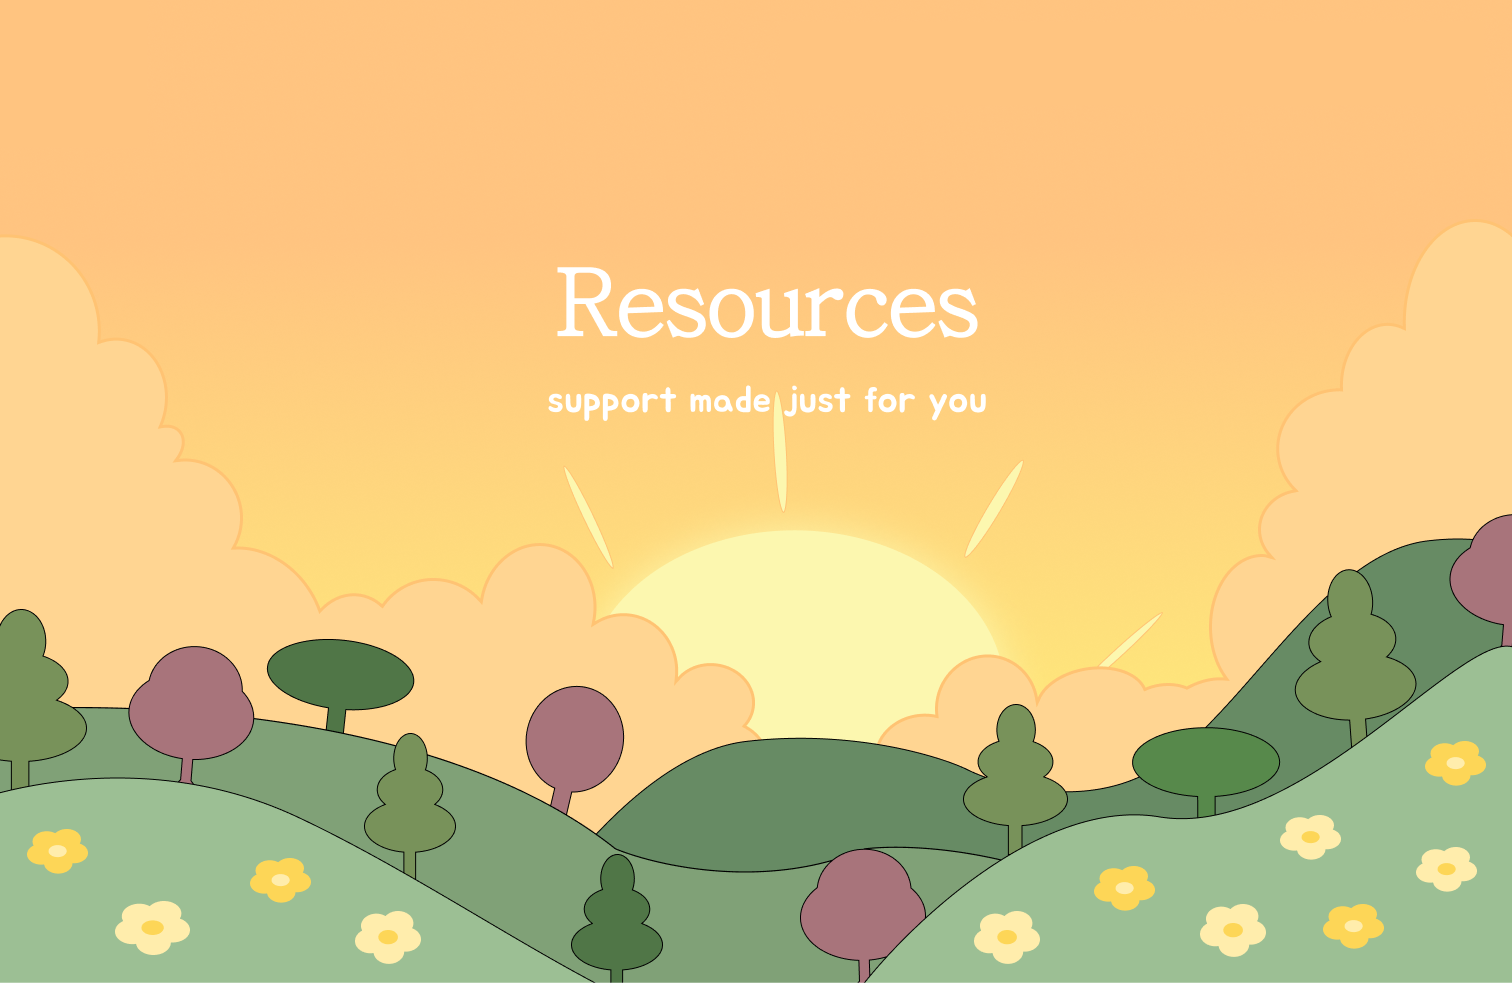
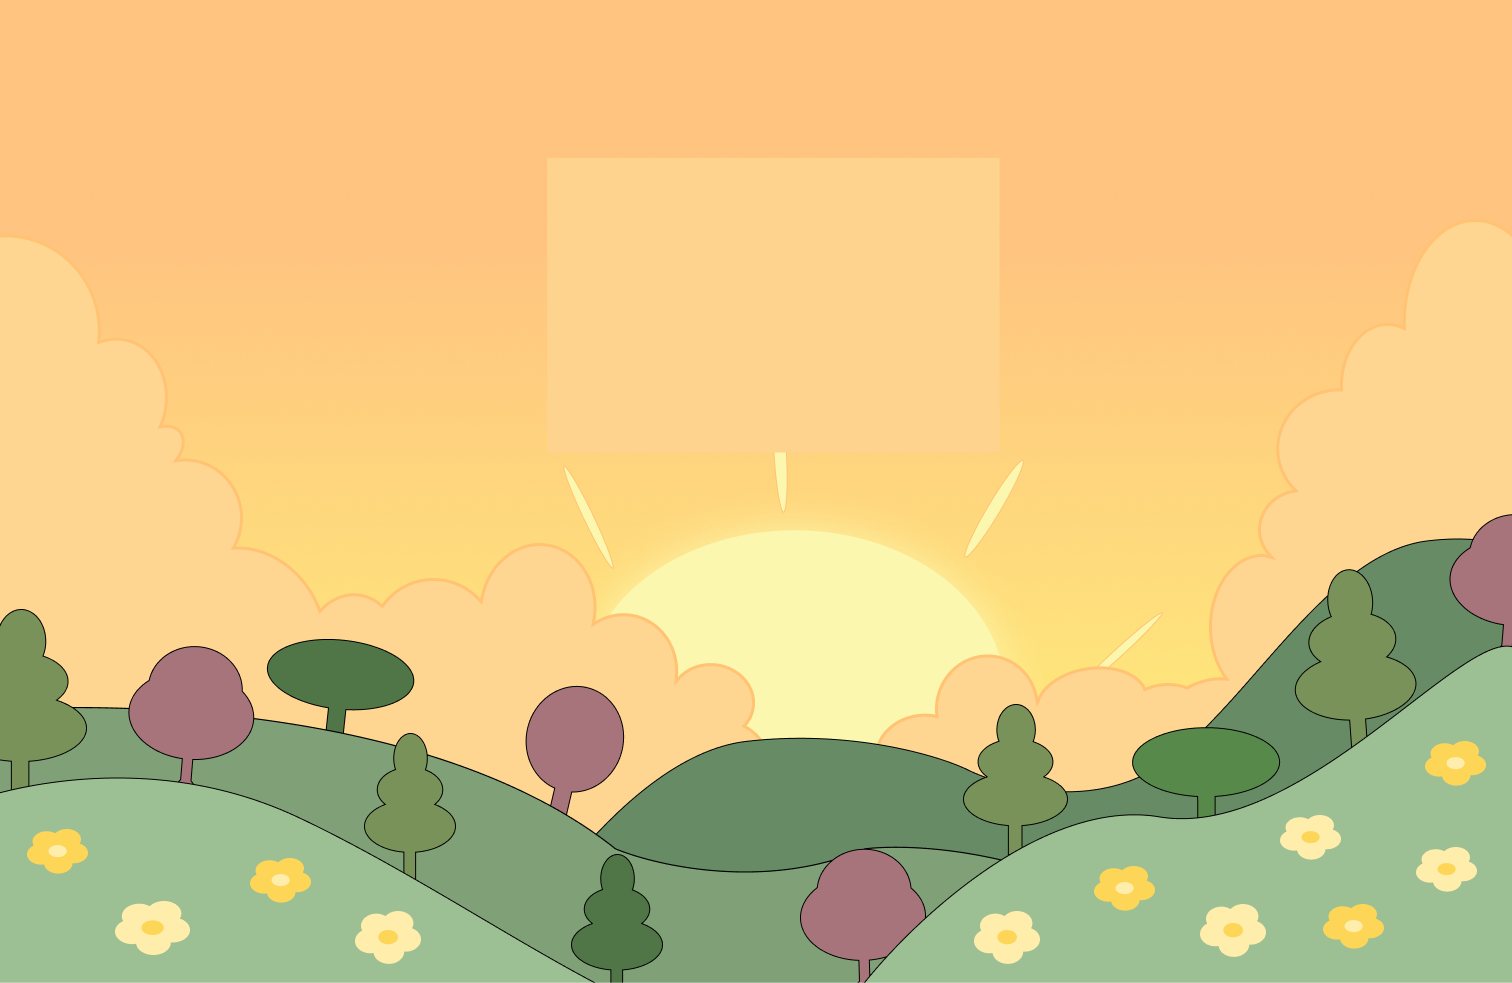
Practically Done
I just need help with fonts and stuff of that nature. Additonally, I need help getting better images for my background of the heros. Besides that I am done.

Changed region(s): [[0.373, 0.2747, 0.6528, 0.3662], [0.3419, 0.3967, 0.6528, 0.4578]]

diff --git a/app/(pages)/_components/common/Navbar/Navbar.module.scss b/app/(pages)/_components/common/Navbar/Navbar.module.scss
@@ -1,4 +1,5 @@
  // Import global styles
+ 
 .navbar {
     position: absolute; 
     top: 0;
@@ -15,10 +16,27 @@
 
 .nav-logo {
         width: 101.924px;
-            height: 89px;
-            flex-shrink: 0;
-            aspect-ratio: 101.92/89.00;
+        height: 89px;
+        flex-shrink: 0;
+        aspect-ratio: 101.92/89.00;
     }
+.nav-contact {
+    a {
+        width: 118px;
+        height: 49px;
+        flex-shrink: 0;
+        padding: 0.5rem 1.5rem;
+        border: none; 
+        border-radius: 999px; 
+        background: var(--day-sun); 
+        transition: all 0.3s ease; 
+    }
+
+    a:hover {
+        background-color: var(--day-sun); // or your primary color
+        color: var(--white); // text flips color on hover
+    }
+}
 
 
 .nav-links {
@@ -28,14 +46,22 @@
 
     .nav-link {
         a {
+            width: 134.662px;
+            height: 36.619px;
+            flex-shrink: 0;
             text-decoration: none;
-            font-size: 1.2rem;
-            font-weight: 600;
             transition: color 0.3s ease;
-            color: var(--black); // Default color (can be overwritten)
+            color: var(--black);
+            color: #000;
+            font-family: JejuMyeongjo;
+            font-size: 23.625px;
+            font-style: normal;
+            font-weight: 400;
+            line-height: normal;
 
             &:hover {
                 opacity: 0.7;
+                
             }
         }
     }
@@ -43,17 +69,17 @@
 
 /* Styles based on the route */
 .navbar-morning .nav-link a {
-    color:var(--black); // White on morning page
+    color:var(--black); 
 }
 
 .navbar-noon .nav-link a {
-    color: var(--black); // Black on noon page
+    color: var(--black); 
 }
 
 .navbar-night .nav-link a {
-    color: var(--black); // Light gray on night page
+    color: var(--black); 
 }
 
 .navbar-contact .nav-link a {
-    color: var(--black); // Custom for contact page
+    color: var(--black); 
 }

diff --git a/app/(pages)/_components/common/Hero/Hero.module.scss b/app/(pages)/_components/common/Hero/Hero.module.scss
@@ -6,23 +6,31 @@
     background-repeat: no-repeat;
     position: relative;
     display: flex;
-    align-items: center;
+    align-items: flex-start; 
     justify-content: center;
     text-align: center;
+    padding-top: 155px; 
 }
 
 .content {
-    color: var(--black);
+    color: var(--white);
     padding: 2rem;
+    display: flex;
+    flex-direction: column;
+    align-items: center;
+    gap: 2.3rem; 
 
     h1 {
-        font-size: 4rem;
-        font-family: 'JejuMyeongjo', serif;
+        color: var(--white);
+        -webkit-text-stroke-width: 1px;
+        -webkit-text-stroke-color: var(--white);
+        font-style: normal;
+    
     }
 
     p {
-        margin-top: 1rem;
-        font-size: 1.5rem;
-        font-family: 'Jua', sans-serif;
+        color: var(--white);
+        font-style: normal;
+        
     }
 }

diff --git a/app/(pages)/_components/common/Navbar/Navbar.jsx b/app/(pages)/_components/common/Navbar/Navbar.jsx
@@ -31,9 +31,9 @@ return (
                     <Link href="/resources">Resources</Link>
                 </li>
                 <li className={styles["nav-link"]}>
-                    <Link href="/destress">Destress</Link>
+                    <Link href="/destress">De-stress</Link>
                 </li>
-                <li className={styles["nav-link"]}>
+                <li className={`${styles["nav-link"]} ${styles["nav-contact"]}`}>
                     <Link href="/contact">Contact</Link>
                 </li>
             </ul>

diff --git a/app/(pages)/resources/page.jsx b/app/(pages)/resources/page.jsx
@@ -6,8 +6,8 @@ export default function Home() {
     <>
     <Hero
         backgroundImage="/images/noon.png"
-        title=""
-        subtitle=""
+        title="Resources"
+        subtitle="support made just for you"
       />
     <main className={styles.page}>
       <h1>resources</h1>
